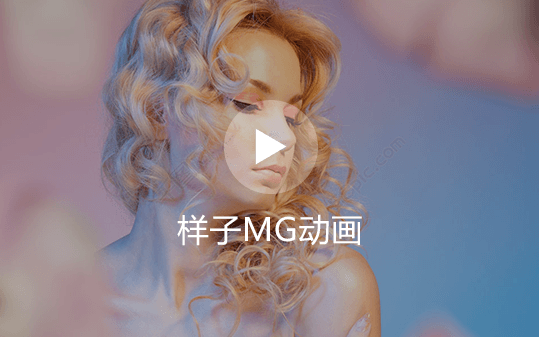
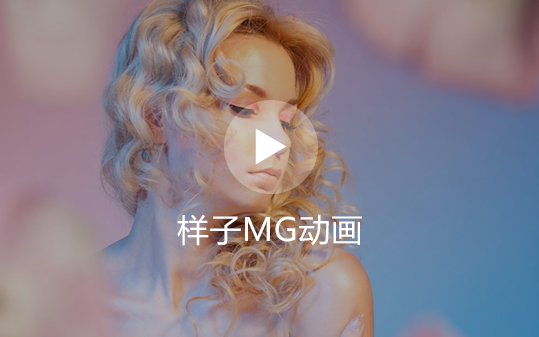
官网

diff --git a/WebContent/css/official.css b/WebContent/css/official.css
@@ -26,6 +26,7 @@ a{text-decoration:none;color:#333;}
 	width: 100%;
     height: 616px;
     position: relative;
+    overflow: hidden;
 }
 .a-swiper-wsc{
 	background-image: url(../images/index/wsc.png);
@@ -70,7 +71,7 @@ a{text-decoration:none;color:#333;}
 .a-swiper-choice{
 	display: inline-block;
     width: 204px;
-    margin: 17px auto 31px;
+    margin: 17px auto 32px;
     padding-left: 22px;
     font-size: 12px;
 }
